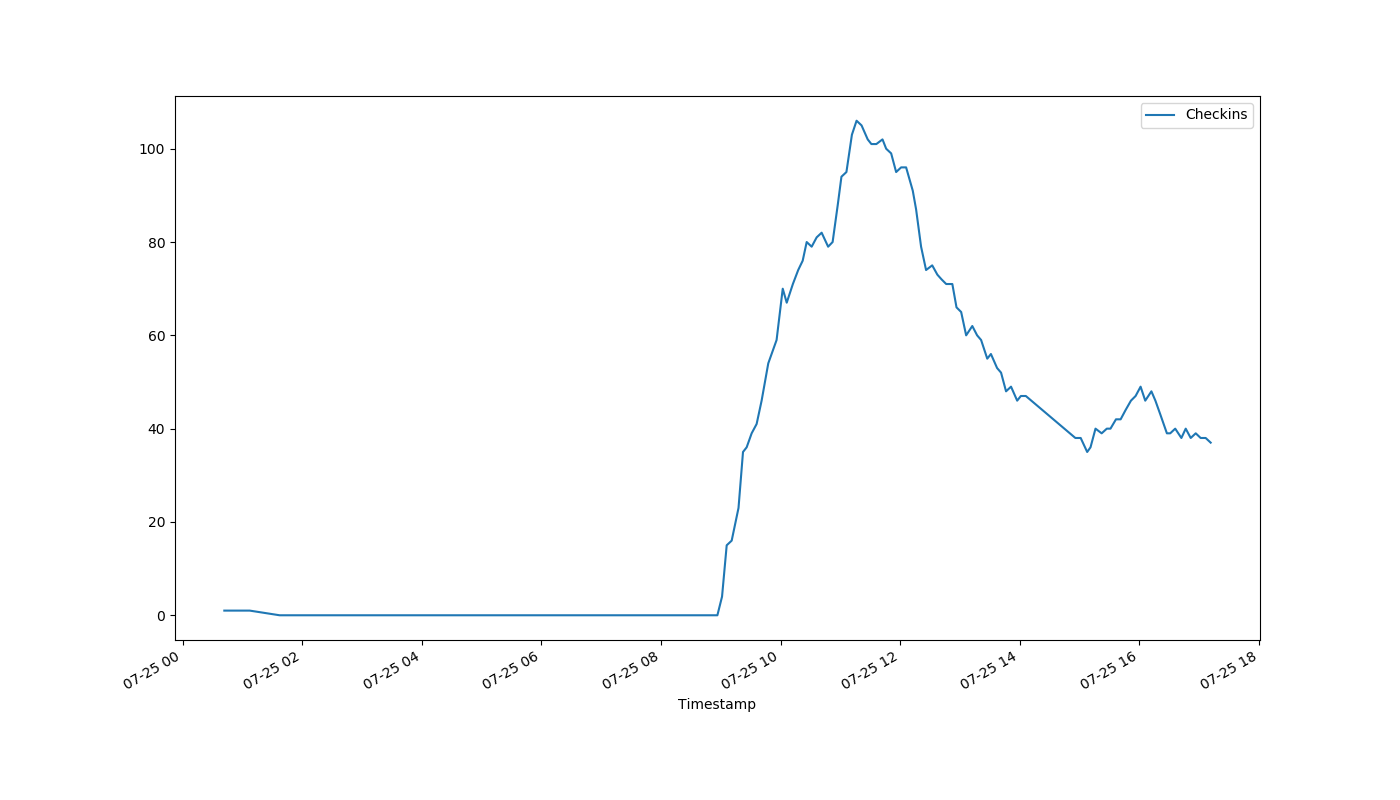
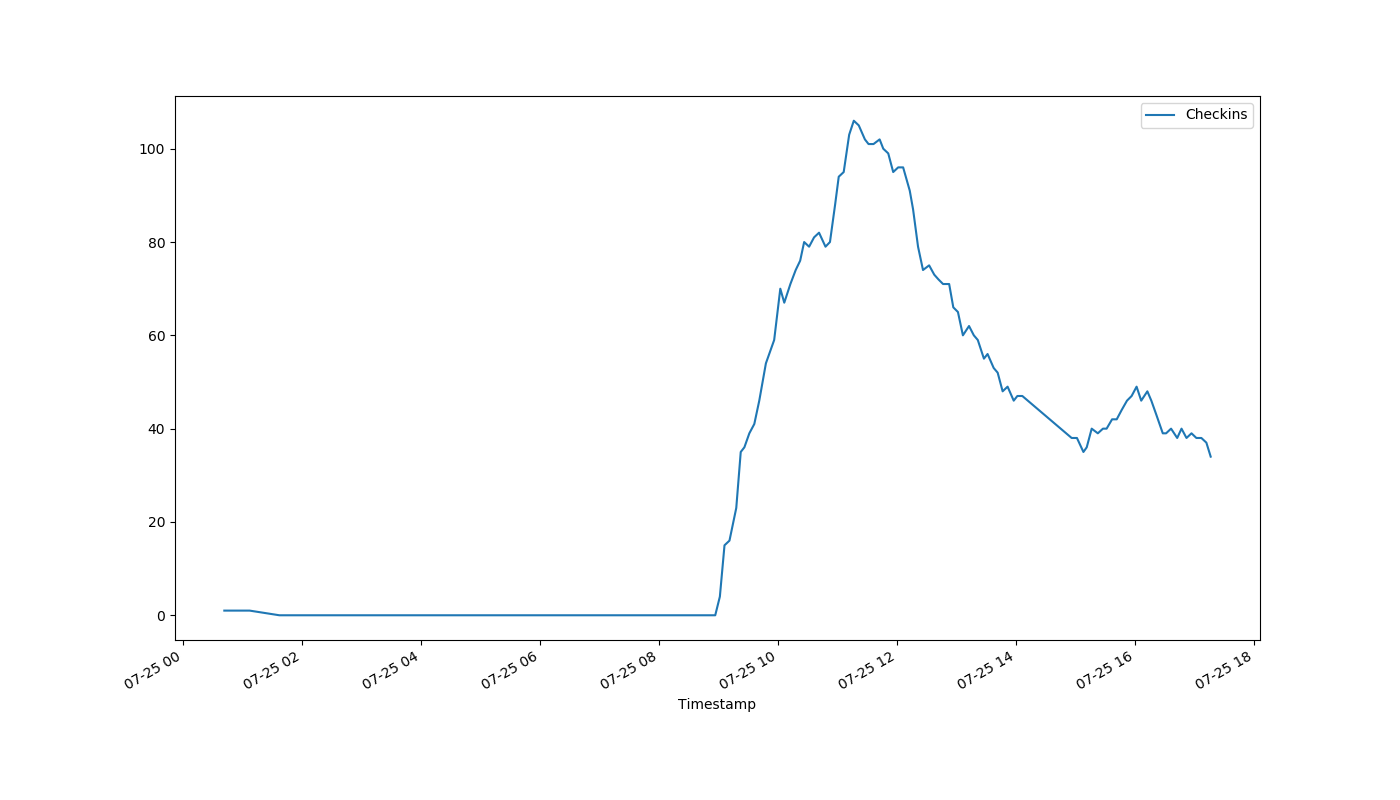
auto-Jul-25-17:17:41

diff --git a/index.html b/index.html
@@ -1,1 +1,1 @@
-<!DOCTYPE html><html><head><meta http-equiv="refresh" content="30"><link rel='stylesheet' href='holmcurrent.css'></head><body><p id='count'>37</p><div id='graph-wrap'><img id='graph' src='holmgraph-Jul-25.png'></div><p id='updated'>Last updated 17:12:11 / 17:11:40</p></body></html>
+<!DOCTYPE html><html><head><meta http-equiv="refresh" content="30"><link rel='stylesheet' href='holmcurrent.css'></head><body><p id='count'>34</p><div id='graph-wrap'><img id='graph' src='holmgraph-Jul-25.png'></div><p id='updated'>Last updated 17:16:11 / 17:16:00</p></body></html>
